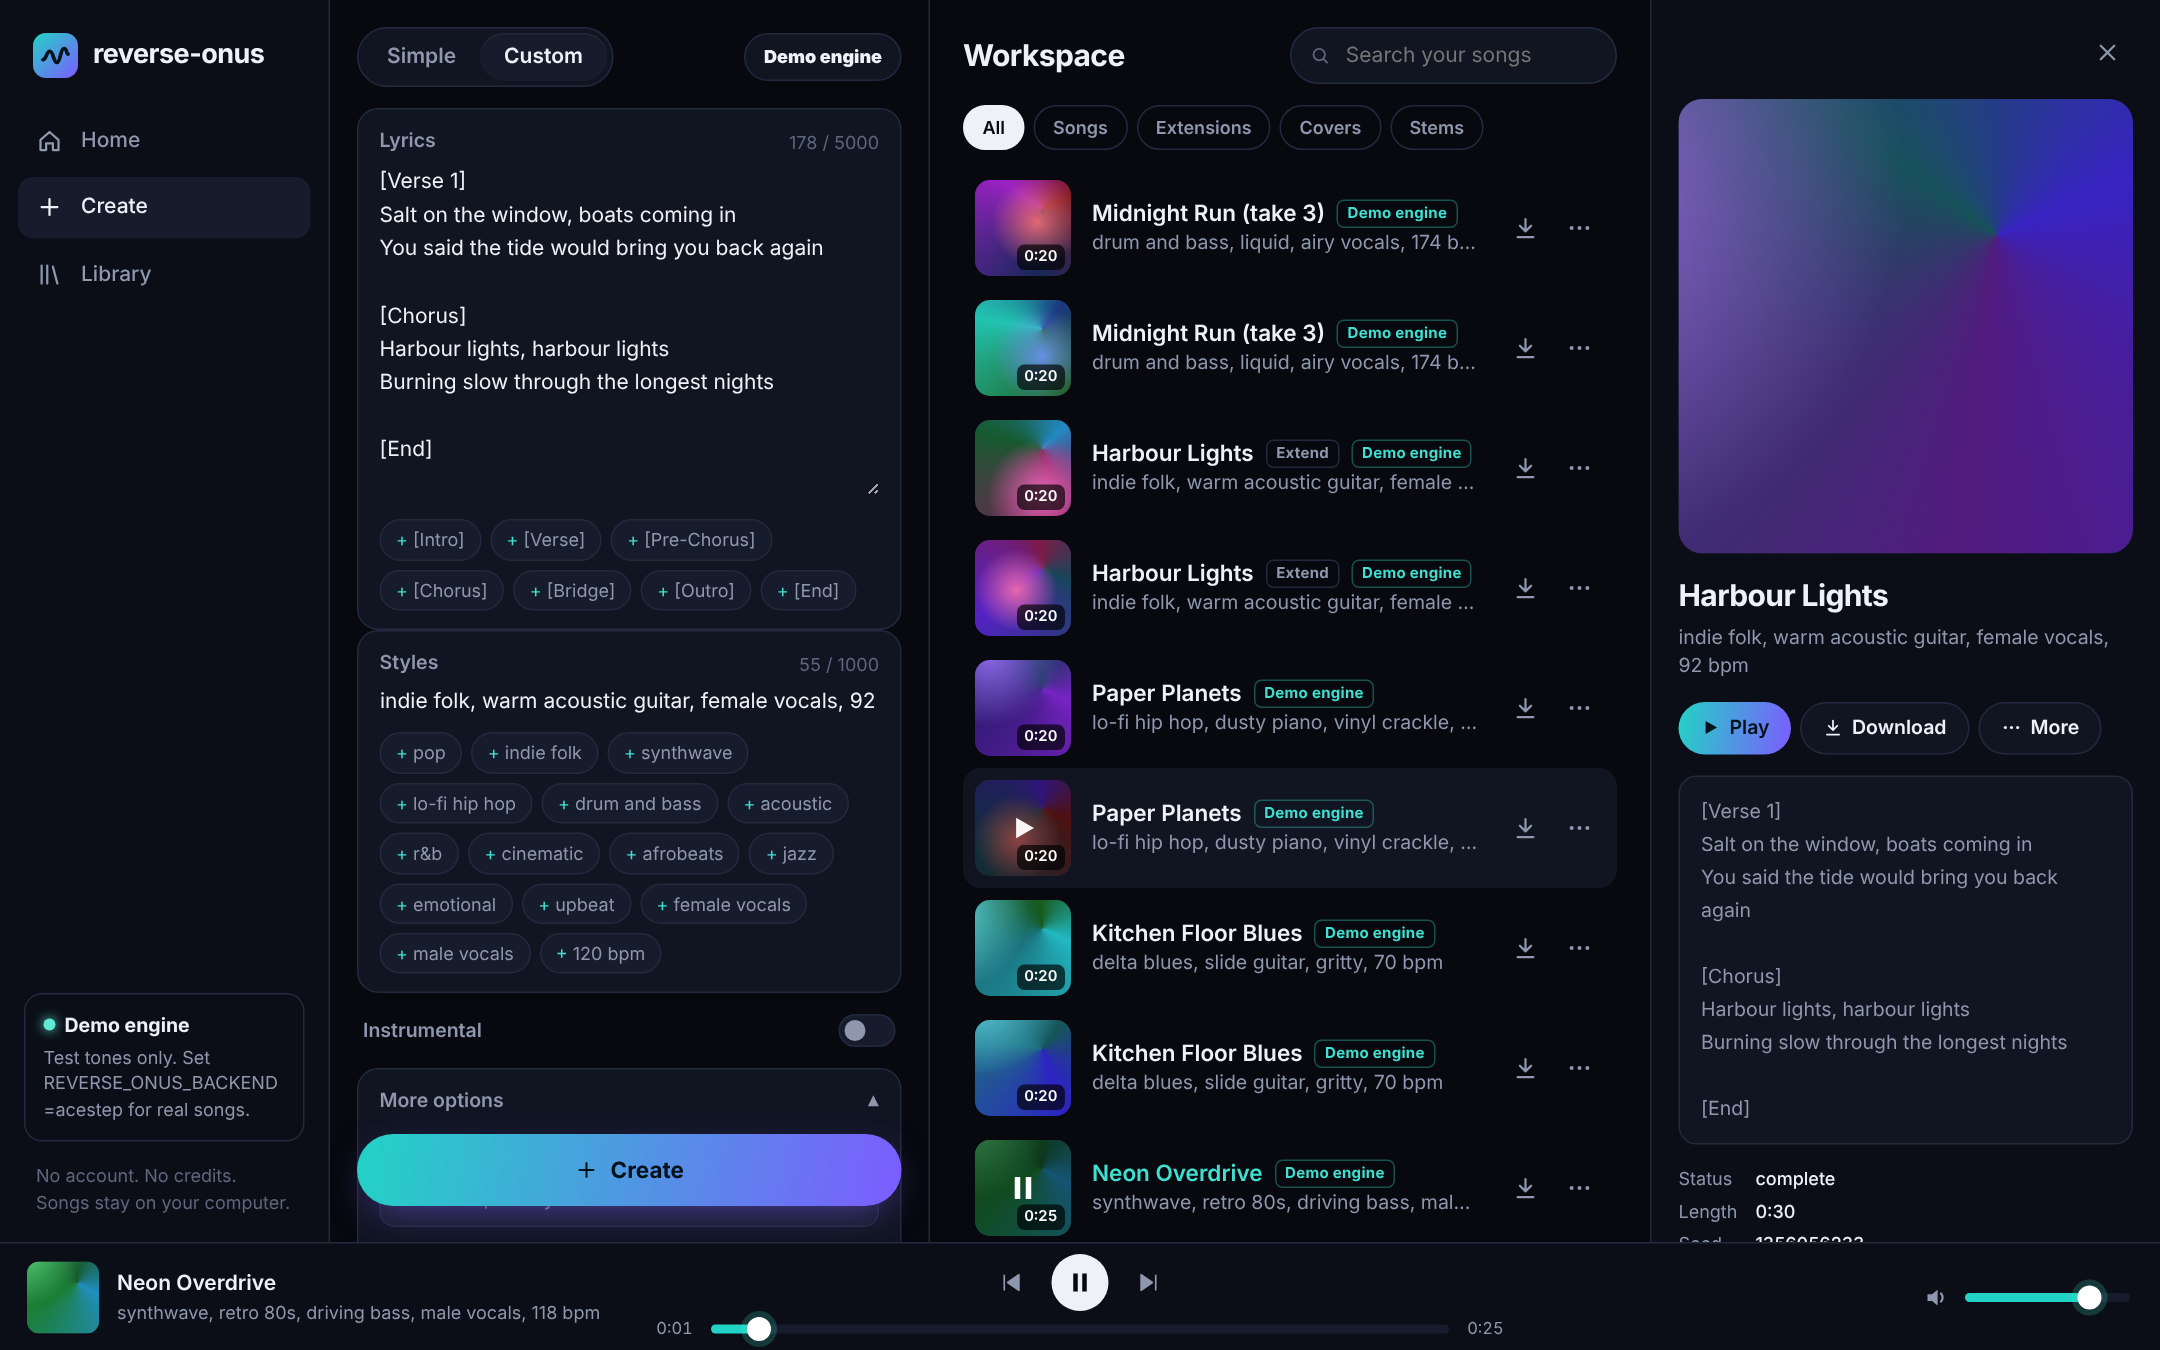
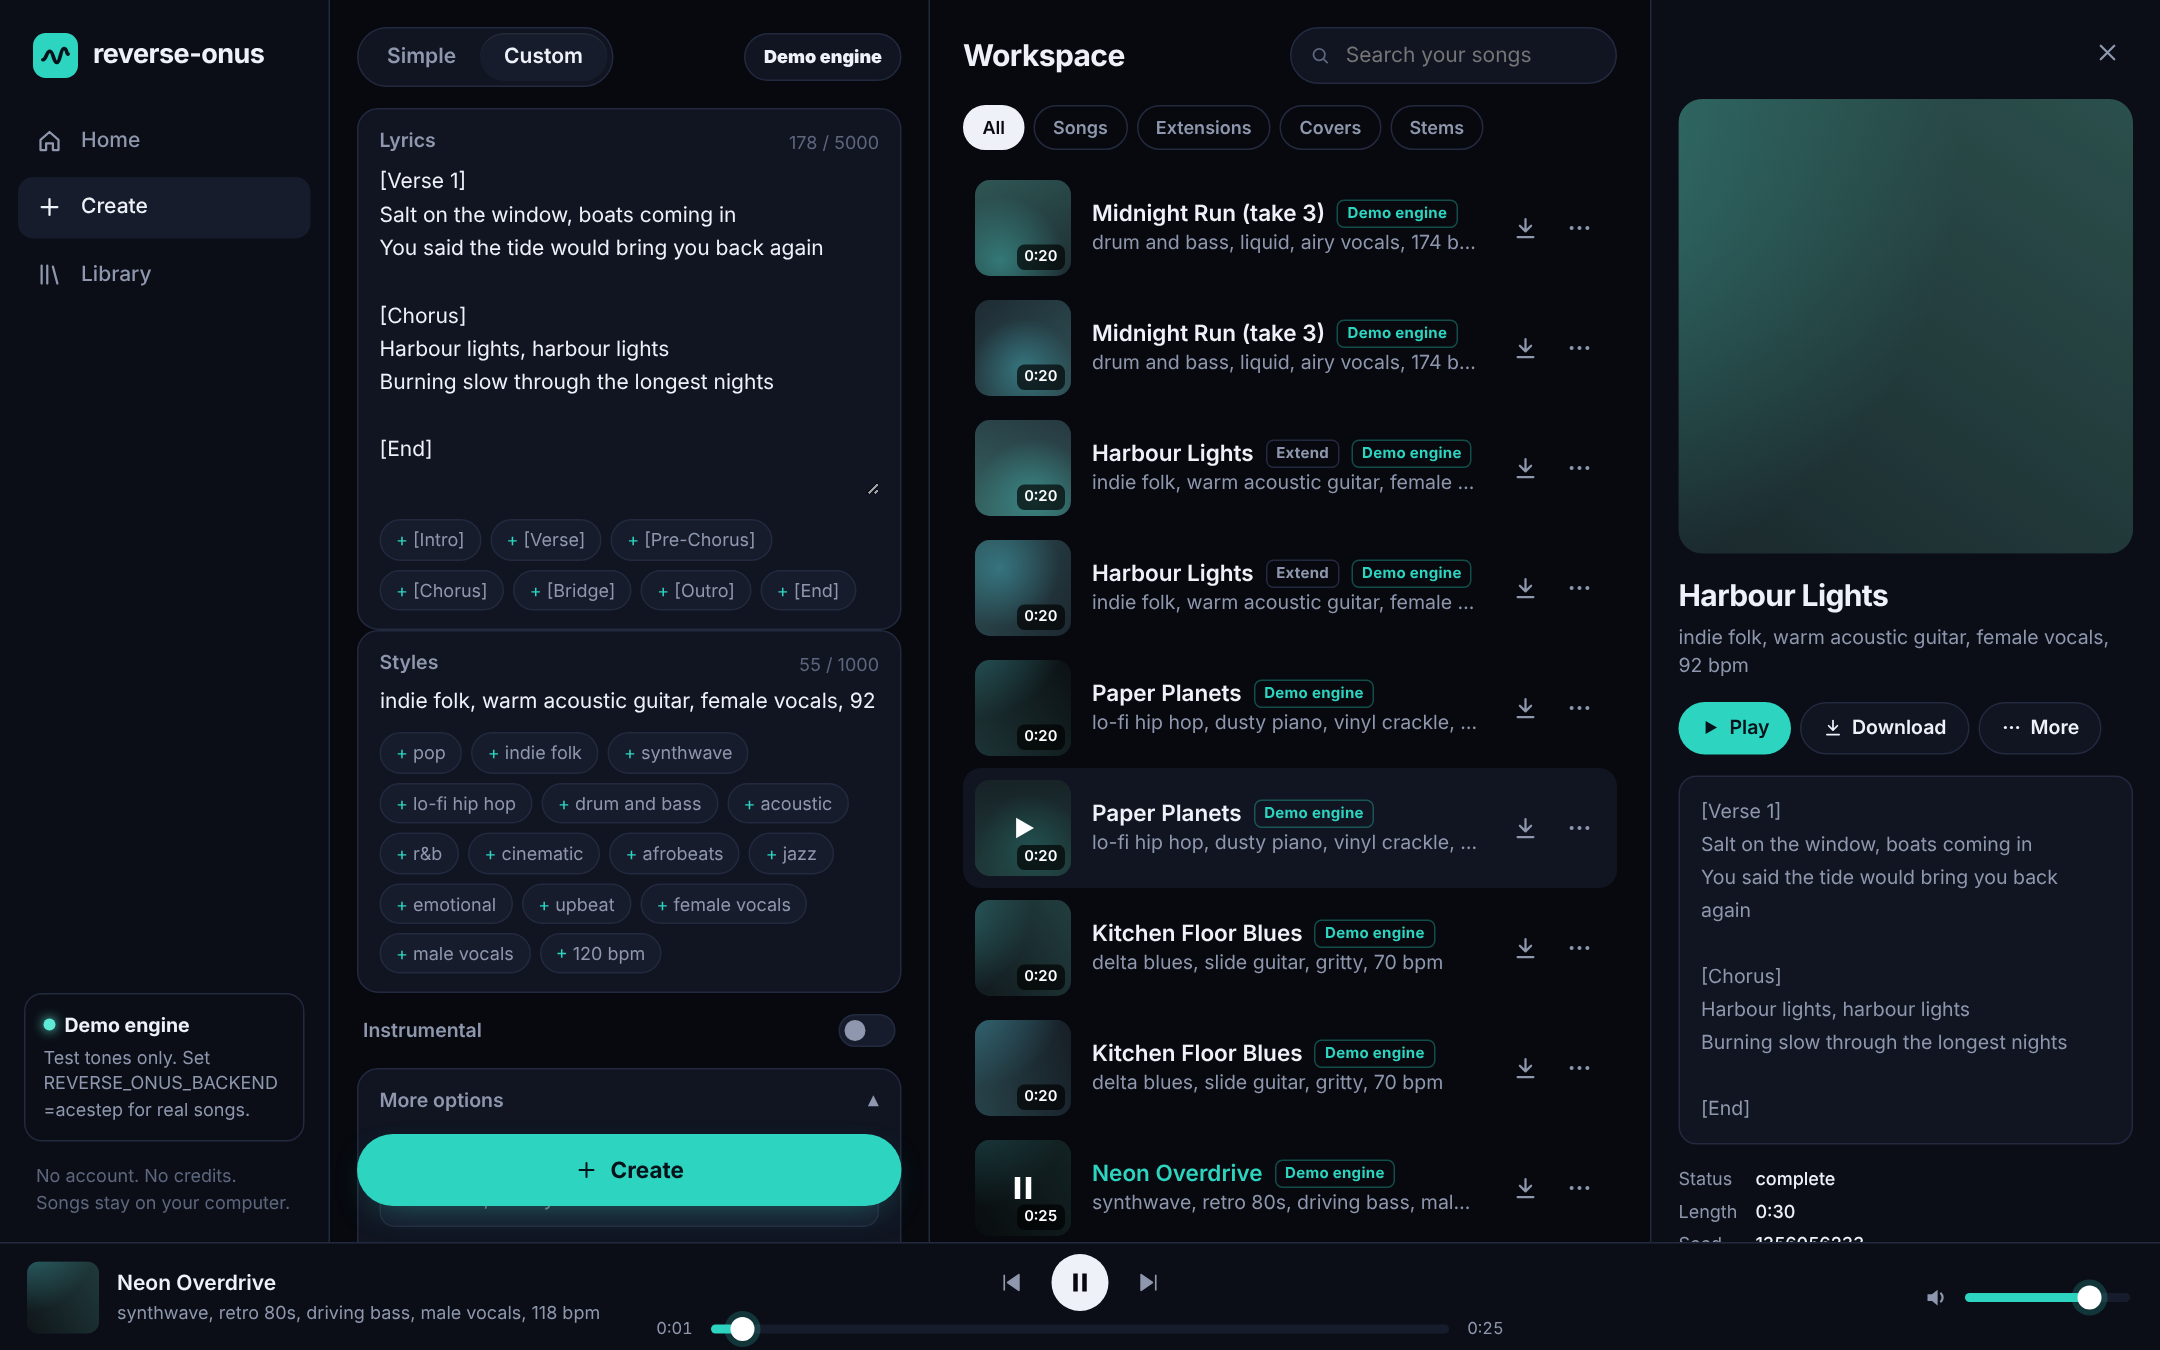
Calm the studio theme: one teal accent, muted cover art
Drops the teal-to-violet gradients and the multi-colour covers.

Claude-Session: https://claude.ai/code/session_01DSTcJyLw1HGUHt5Nw7VrJq

diff --git a/reverse_onus/web/index.html b/reverse_onus/web/index.html
@@ -8,7 +8,7 @@
 :root{
   --bg:#07090f;--side:#0b0e17;--panel:#111522;--panel-2:#171c2c;--hover:#1d2336;--line:#232a3f;
   --ink:#eef1f8;--muted:#8e97ad;--faint:#5d667d;
-  --a1:#22d3c5;--a2:#7c5cff;--accent:#3fe0cf;--grad:linear-gradient(100deg,var(--a1),var(--a2));
+  --a1:#2dd4bf;--accent:#2dd4bf;--grad:var(--accent);
   --ok:#5eead4;--bad:#ff6b8a;--warn:#fbbf24;
   --player:72px;
 }
@@ -77,11 +77,11 @@ details.more[open] summary::after{transform:rotate(180deg)}
 .pair{display:grid;grid-template-columns:1fr 1fr;gap:10px}
 .pills{display:flex;gap:6px}
 .pills button{flex:1;border:1px solid var(--line);background:var(--panel-2);color:var(--muted);border-radius:10px;padding:7px 0;font-weight:600;font-size:12px}
-.pills button.on{color:var(--ink);border-color:var(--accent);background:#3fe0cf14}
+.pills button.on{color:var(--ink);border-color:var(--accent);background:#2dd4bf14}
 input[type=range]{-webkit-appearance:none;appearance:none;width:100%;height:6px;border-radius:6px;background:linear-gradient(90deg,var(--a1) var(--p,50%),var(--panel-2) var(--p,50%));outline:0}
-input[type=range]::-webkit-slider-thumb{-webkit-appearance:none;width:16px;height:16px;border-radius:50%;background:#fff;border:0;box-shadow:0 0 0 4px #3fe0cf33}
+input[type=range]::-webkit-slider-thumb{-webkit-appearance:none;width:16px;height:16px;border-radius:50%;background:#fff;border:0;box-shadow:0 0 0 4px #2dd4bf33}
 input[type=range]::-moz-range-thumb{width:16px;height:16px;border-radius:50%;background:#fff;border:0}
-.go{border:0;border-radius:999px;padding:13px 18px;font-weight:700;font-size:15px;color:#05121a;background:var(--grad);display:flex;align-items:center;justify-content:center;gap:8px;box-shadow:0 8px 28px -10px #7c5cffaa;position:sticky;bottom:0}
+.go{border:0;border-radius:999px;padding:13px 18px;font-weight:700;font-size:15px;color:#05121a;background:var(--grad);display:flex;align-items:center;justify-content:center;gap:8px;box-shadow:0 8px 24px -12px #2dd4bf88;position:sticky;bottom:0}
 .go:disabled{opacity:.55;cursor:default}
 .err{color:var(--bad);font-size:13px;white-space:pre-wrap}
 .err:empty{display:none}
@@ -113,7 +113,7 @@ input[type=range]::-moz-range-thumb{width:16px;height:16px;border-radius:50%;bac
 .title{font-weight:600;font-size:15px;display:flex;align-items:center;gap:8px;min-width:0}
 .tt{white-space:nowrap;overflow:hidden;text-overflow:ellipsis}
 .badge{font-size:10px;font-weight:700;padding:1px 6px;border-radius:5px;border:1px solid var(--line);color:var(--muted);letter-spacing:.02em;flex:none}
-.badge.v{color:var(--accent);border-color:#3fe0cf55}
+.badge.v{color:var(--accent);border-color:#2dd4bf55}
 .tags{color:var(--muted);font-size:13px;white-space:nowrap;overflow:hidden;text-overflow:ellipsis}
 .state{font-size:12px;color:var(--faint);white-space:nowrap;overflow:hidden;text-overflow:ellipsis}
 .state.error,.state.cancelled{color:var(--bad)}
@@ -211,7 +211,7 @@ dialog .foot{display:flex;justify-content:flex-end;gap:8px;margin-top:18px}
 <body>
 <svg width="0" height="0" style="position:absolute" aria-hidden="true">
   <defs>
-    <linearGradient id="g" x1="0" y1="0" x2="1" y2="1"><stop offset="0" stop-color="#22d3c5"/><stop offset="1" stop-color="#7c5cff"/></linearGradient>
+    <linearGradient id="g" x1="0" y1="0" x2="1" y2="1"><stop offset="0" stop-color="#2dd4bf"/><stop offset="1" stop-color="#2dd4bf"/></linearGradient>
     <symbol id="i-logo" viewBox="0 0 32 32"><rect width="32" height="32" rx="9" fill="url(#g)"/><path d="M7 19c2.5 0 2.5-6 5-6s2.5 8 5 8 2.5-10 5-10 1.5 4 3 4" fill="none" stroke="#05121a" stroke-width="2.6" stroke-linecap="round" stroke-linejoin="round"/></symbol>
     <symbol id="i-create" viewBox="0 0 24 24"><path d="M12 5v14M5 12h14" fill="none" stroke="currentColor" stroke-width="2" stroke-linecap="round"/></symbol>
     <symbol id="i-lib" viewBox="0 0 24 24"><path d="M5 4v16M10 4v16M15 5l4 15" fill="none" stroke="currentColor" stroke-width="2" stroke-linecap="round"/></symbol>
@@ -388,10 +388,10 @@ $("create").onclick = async () => {
 /* ---------- workspace ---------- */
 function fmt(s){ if (s == null || !isFinite(s)) return "0:00"; s = Math.round(s); return Math.floor(s/60) + ":" + String(s%60).padStart(2,"0"); }
 function hash(s){ let h = 2166136261; for (const ch of String(s)) h = Math.imul(h ^ ch.charCodeAt(0), 16777619); return h >>> 0; }
-// Each song gets generated cover art from its id, so there are no image files to store.
+// Each song gets cover art drawn from its id (one muted teal family), so there are no image files to store.
 function art(c){
-  const h = hash(c.id), a = 160 + h % 140, b = (a + 40 + (h >> 8) % 120) % 360, x = 20 + (h >> 4) % 60, y = 20 + (h >> 12) % 60, r = (h >> 16) % 360;
-  return `background:radial-gradient(circle at ${x}% ${y}%,hsl(${b} 90% 70% / .9),transparent 55%),conic-gradient(from ${r}deg at 70% 30%,hsl(${a} 70% 45%),hsl(${b} 65% 30%),hsl(${(a+300)%360} 60% 22%),hsl(${a} 70% 45%))`;
+  const h = hash(c.id), hue = 172 + h % 22, x = 15 + (h >> 5) % 70, y = 15 + (h >> 11) % 70, deg = (h >> 17) % 360, l = 14 + (h >> 23) % 14;
+  return `background:radial-gradient(circle at ${x}% ${y}%,hsl(${hue} 45% 46% / .55),transparent 60%),linear-gradient(${deg}deg,hsl(${hue} 30% ${l + 10}%),hsl(${hue + 18} 25% ${l}%))`;
 }
 const TASK = {generate:"", extend:"Extend", cover:"Cover", "replace-section":"Edit", stems:"Stem", concat:"Full song"};
 const busy = c => c.status === "queued" || c.status === "running";
